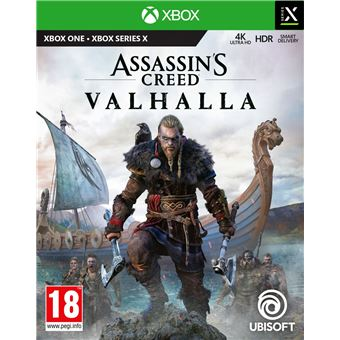
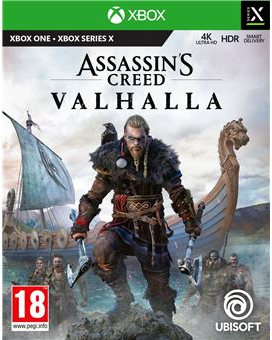
home : dynamic img display

diff --git a/JEE_Project/vg-web/src/main/webapp/js/home.js b/JEE_Project/vg-web/src/main/webapp/js/home.js
@@ -56,7 +56,6 @@ $(() => {
 
             success: function(resp) {
                 const result = JSON.parse(resp);
-                console.log(result);
                 let html;
                 if (!Array.isArray(result) || !result.length) {
                     html = "Pas de résultat pour votre recherche";
@@ -66,7 +65,9 @@ $(() => {
                             '<article>'+
                                 '<hr>'+
                                 (item.hasOwnProperty("consoles") ?
-                                    item["consoles"].reduce((subtotal, subitem) => subtotal +=
+                                    item["consoles"].filter(function (elem) {
+                                        return selected.length === 0 ? true : $.inArray(elem, selected) !== -1;
+                                    }).reduce((subtotal, subitem) => subtotal +=
                                         '<a href="/product/'+item["id"]+"/"+subitem+'">'+
                                             '<img src="/image/'+item["img"]+"_"+subitem+'" alt="product_'+subitem+'_img"/>'+
                                         '</a>'

diff --git a/JEE_Project/vg-web/src/main/webapp/css/home.css b/JEE_Project/vg-web/src/main/webapp/css/home.css
@@ -1,4 +1,4 @@
 section img {
-    max-height: 400px;
-    max-width: 400px;
+    height: 250px;
+    width: 200px;
 }
